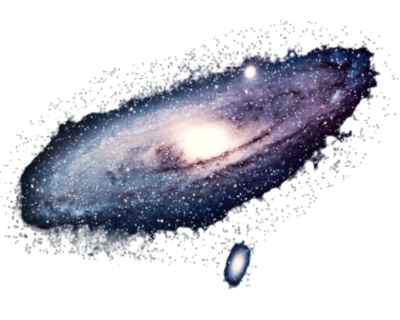
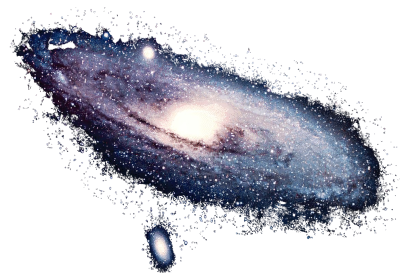
Correcoes em geral

diff --git a/docs/css/index/main_index.css b/docs/css/index/main_index.css
@@ -119,13 +119,13 @@ main{
 
 .milkyway-section .milkyway-img{
     width: 50%;
-    margin-top: -80px;
 }
 
 .milkyway-section .milkyway-img img{
     display: block;
     margin: auto;
     animation: milkyway-jump 2s ease-in-out 0s infinite alternate both;
+    margin-bottom: 10%;
 }
 
 .milkyway-section .milkyway-img img:hover{
@@ -163,6 +163,7 @@ main{
     display: block;
     margin: auto;
     animation: andromeda-jump 2s ease-in-out 0s infinite alternate both;
+    margin-bottom: 10%;
 }
 
 .andromeda-section .andromeda-img img:hover{
@@ -195,6 +196,7 @@ main{
     display: block;
     margin: auto;
     animation: triangle-jump 2s ease-in-out 0s infinite alternate both;
+    margin-bottom: 5%;
 }
 
 .triangle-section .triangle-img img:hover{
@@ -247,7 +249,6 @@ main{
     display: flex;
     flex-flow: row nowrap;
     justify-content: center;
-    margin-top: 20px;
 }
 
 .galaxies-btn-div button{

diff --git a/docs/triangle.html b/docs/triangle.html
@@ -27,14 +27,14 @@
                 <li id="spacer"></li>
                 <li><a href="milkyway.html">Via Láctea</a></li>
                 <li><a href="andromeda.html">Andrômeda</a></li>
-                <li><a href="centaurus.html">Centaurus A</a></li>
+                <li><a href="centaurus.html">Triângulo</a></li>
             </ul>
         </header>
         <main>
             <div class="popup"></div>
             <div class="intro-text">
                 <p>Bem-vindo à</p>
-                <h1 class="highlight">Centaurus A!</h1>
+                <h1 class="highlight">Triângulo!</h1>
                 <p class="guide-text">Chegou a hora da aventura, <span class="emphasis">Mochileiro!</span> Está preparado?</p>
                 <p class="guide-text"><span class="emphasis">Clique</span> no planeta ou na estrela que deseja explorar abaixo</p>
             </div>

diff --git a/docs/andromeda.html b/docs/andromeda.html
@@ -27,7 +27,7 @@
                 <li id="spacer"></li>
                 <li><a href="milkyway.html">Via Láctea</a></li>
                 <li><a href="andromeda.html">Andrômeda</a></li>
-                <li><a href="triangle.html">triangle A</a></li>
+                <li><a href="triangle.html">Triângulo</a></li>
             </ul>
         </header>
         <main>
